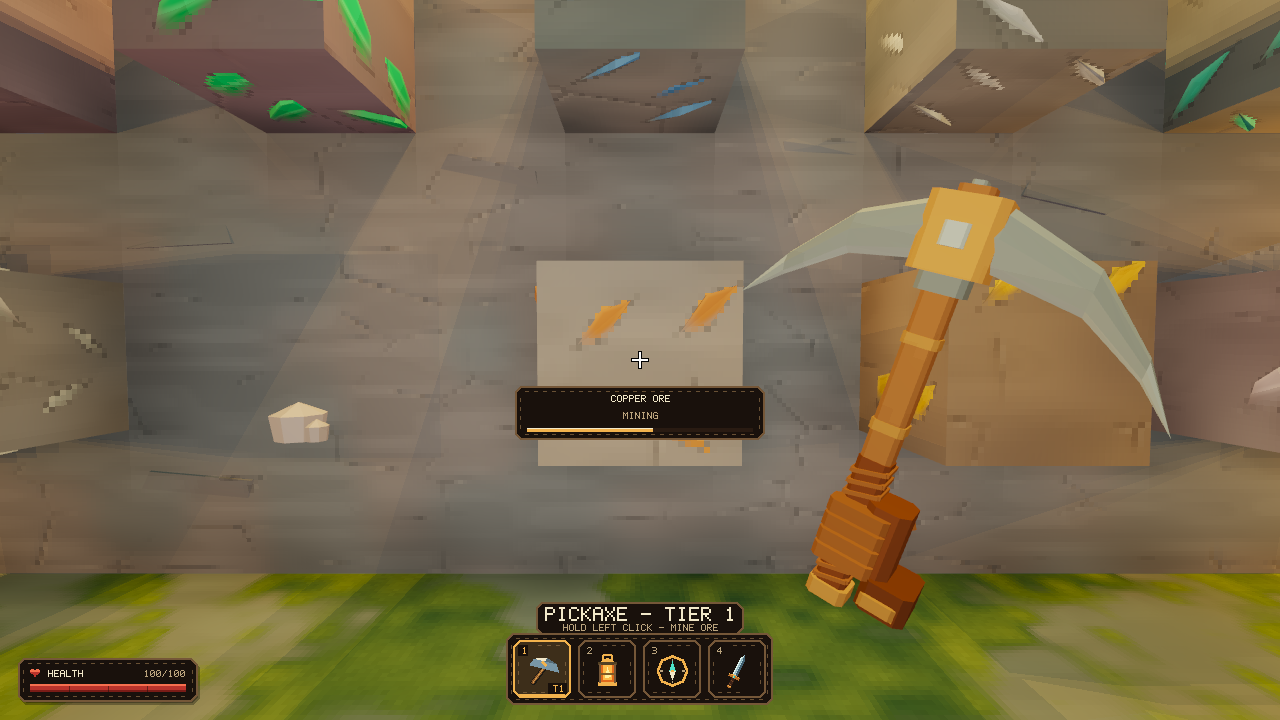
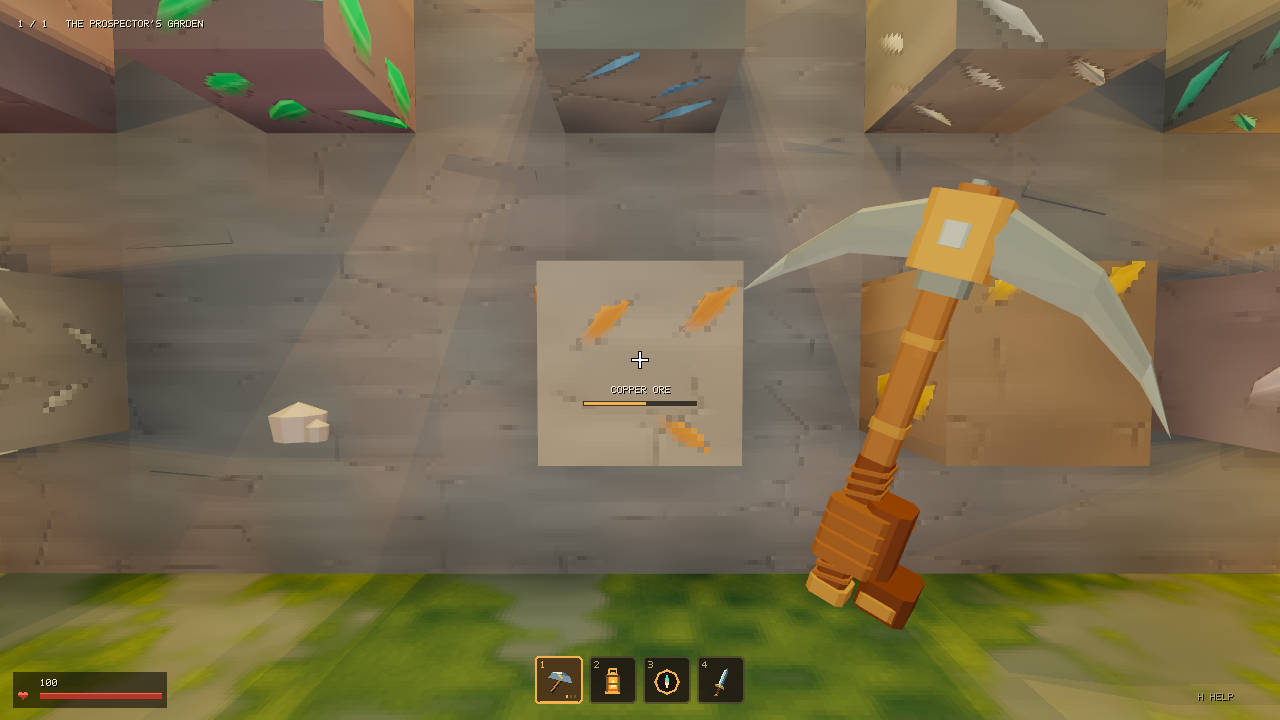
Show the compact HUD in village and mining screenshots

diff --git a/README.md b/README.md
@@ -49,9 +49,11 @@ You start in the village. The blacksmith is southwest of the central tree, marke
 | I | Open the 20-slot inventory |
 | R | Return to the village spawn, or the current expedition checkpoint |
 | Escape / Tab | Pause / resume |
-| H / Q | Show controls / quit |
+| H / Q | Toggle controls / quit |
 
 You walk up stairs automatically. Full blocks need a jump. The lantern lights your surroundings; the compass points toward the village tree or your current expedition exit.
+
+The HUD keeps your tools and health at the bottom. Mining, chest, and interaction prompts appear when needed. Press **H** for controls, including during section playtests.
 
 You have 100 health. Enemy hits give you a short shove and view jolt, with a red edge pulse showing where the hit came from. Long falls deal damage and trigger the pulse without a sideways shove; landing in water cushions the fall. If you die, you return at full health to the checkpoint you reached, or the current section's Start. Your inventory and collected loot stay as they were. Health carries over when you move to the next section, but checkpoints belong to their own section.
 
